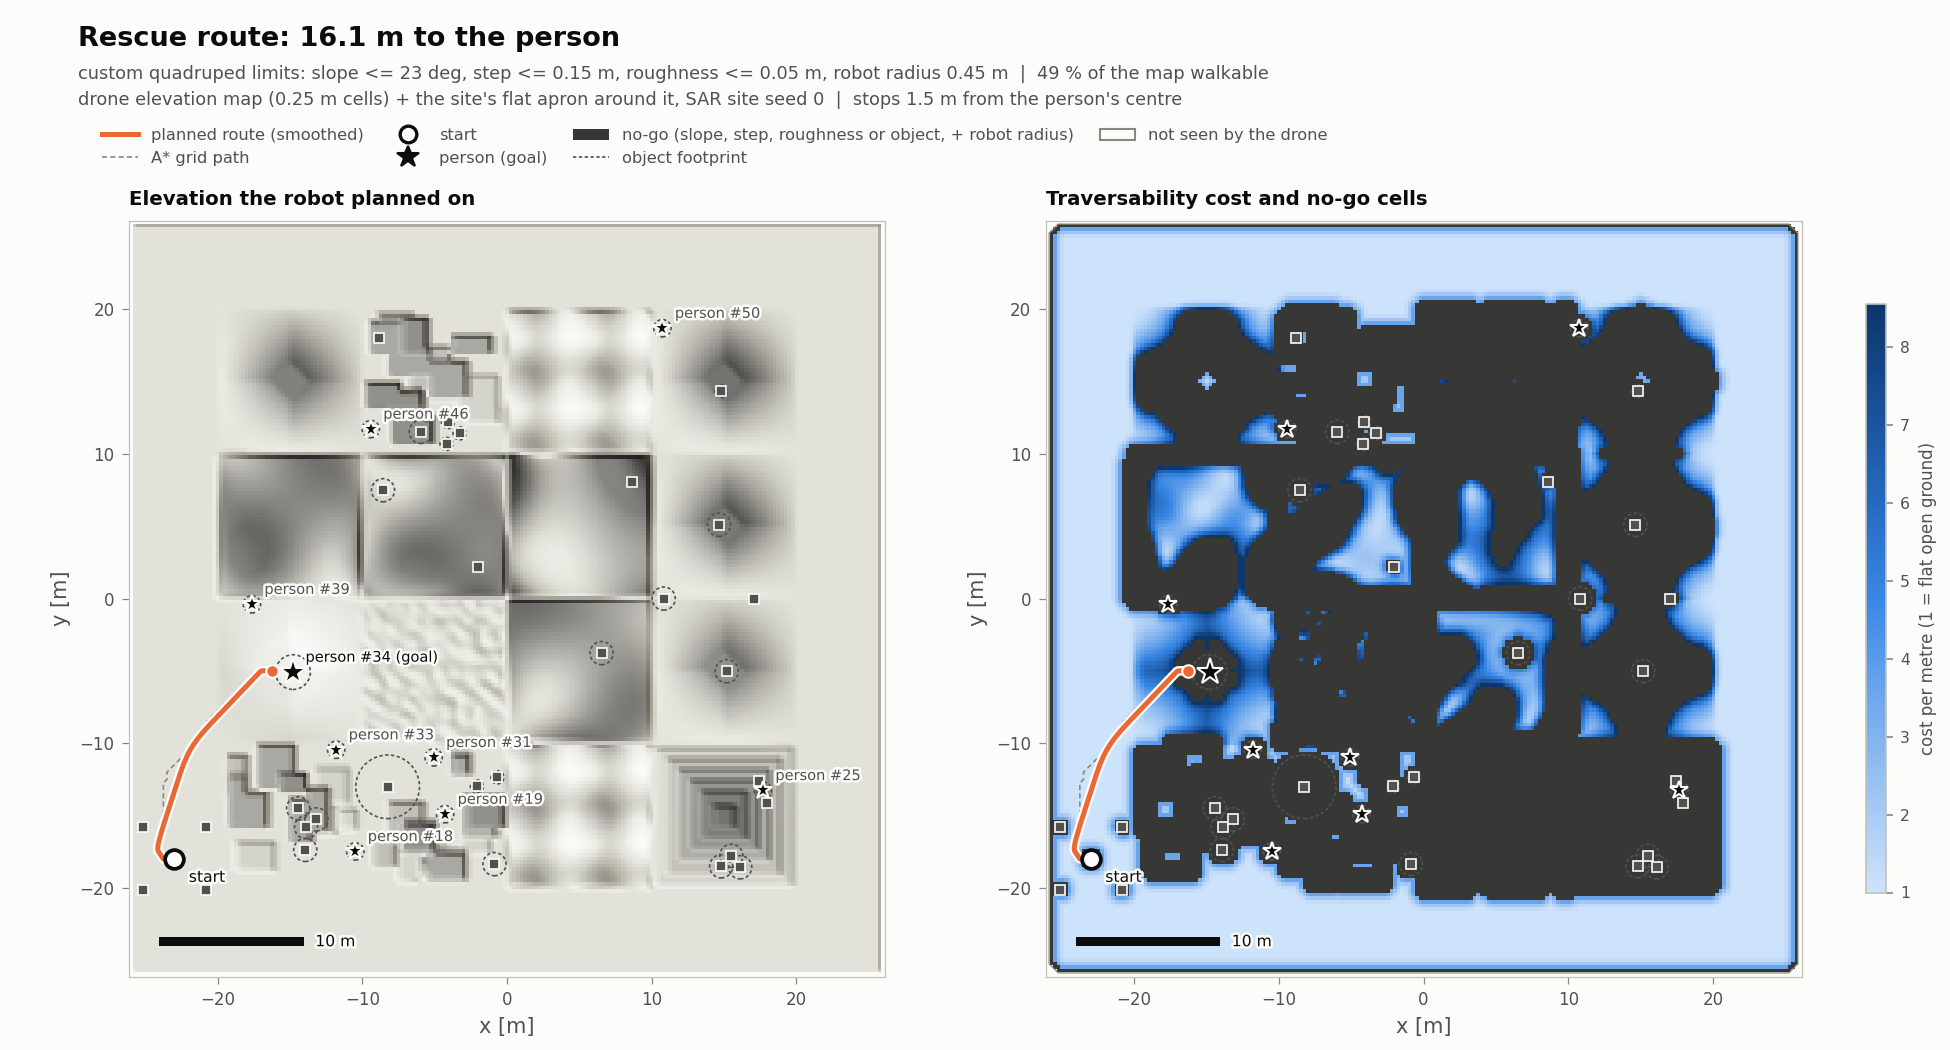
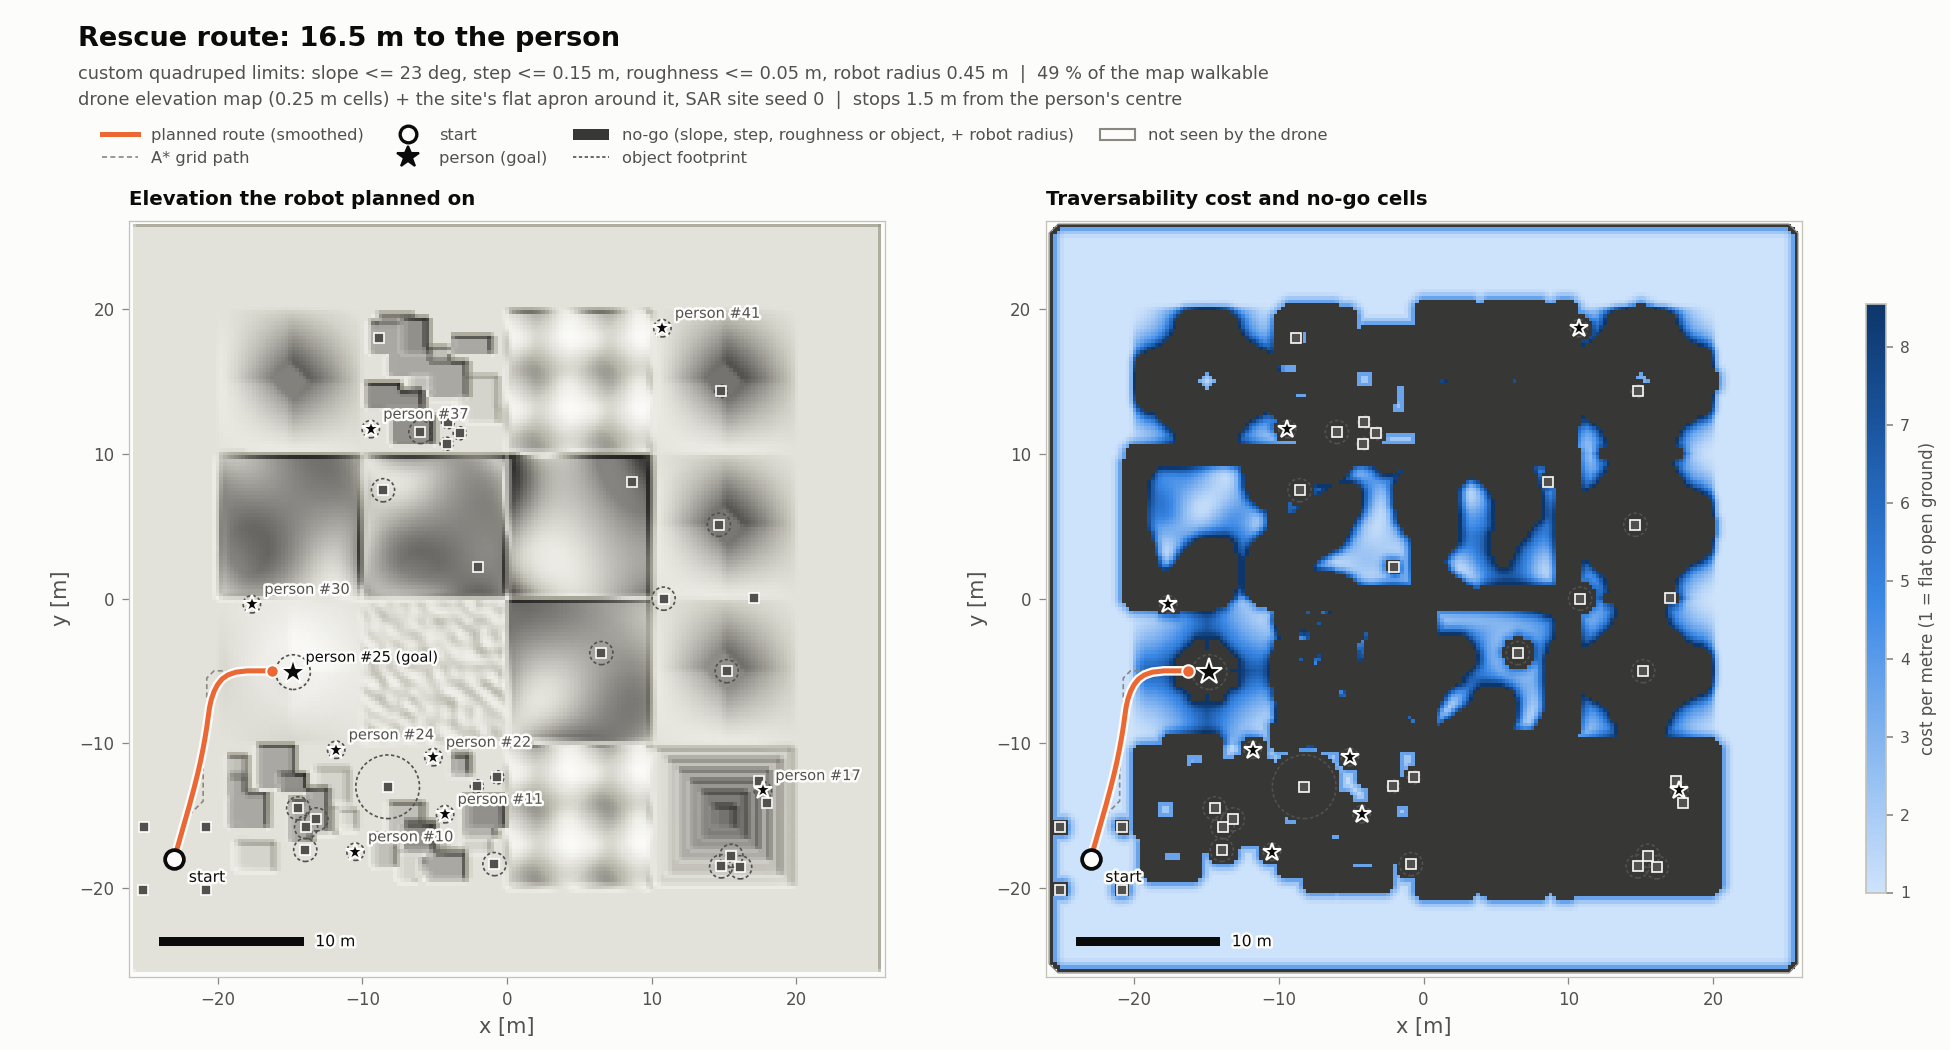
Document the rescue finale on the recorded live mission

diff --git a/sim/src/drone_lab/teaming/README.md b/sim/src/drone_lab/teaming/README.md
@@ -11,7 +11,8 @@ drone elevation map ─┐
 pins (people, props) ┴─► slope / step / roughness ─► cost-weighted 8-conn. A* ─► pure pursuit ─────────► locomotion
                          + object footprints          start/goal snapping         (vx, vy, yaw rate)        policy
                          + robot-radius inflation     shortcuts + smoothing       clipped to the policy's   (unchanged)
-                         = cost map (inf = no-go)     = route                     command ranges
+                         + cross-slope cost           = route                     command ranges
+                         = cost map (inf = no-go)
 ```
 
 ## Run it
@@ -69,7 +70,7 @@ plans on the drone map alone (a start off the map then moves onto the map edge, 
 
 | `--robot` | Policy | Physics | Planner limits |
 |---|---|---|---|
-| `custom` (default) | `quadruped_lab/checkpoints_2x/height_scanner_model_rslrl5.pt` (task `Isaac-Velocity-Rough-Custom-Quad-v0`) | Isaac Sim PhysX | slope 23 deg, step 0.15 m, roughness 0.05 m, robot radius 0.45 m, slope fit over 0.45 m |
+| `custom` (default) | `quadruped_lab/checkpoints_2x/height_scanner_model_rslrl5.pt` (task `Isaac-Velocity-Rough-Custom-Quad-v0`) | Isaac Sim PhysX | slope 23 deg, step 0.15 m, roughness 0.05 m, robot radius 0.45 m, slope fit over 0.45 m, cross-slope weight 6 |
 | `go2` | `IsaacLab/logs/rsl_rl/unitree_go2_rough/2026-11-01_15-38-28_demo_quadruped_cont/model_1498.pt` | Newton (MJWarp) | slope 22 deg, step 0.12 m, roughness 0.05 m, robot radius 0.35 m, slope fit over 0.35 m |
 
 The custom quadruped trained on slopes up to 0.4 rise/run (21.8 deg), stairs up to 0.23 m, boxes up to 0.1 m and
@@ -80,29 +81,48 @@ line and end on the crater floor. At 24 deg the planner also takes the steepest 
 truth the robots still walked straight down them (8 of 8), but on the drone's map the last two metres then ran
 across the wall, and while slowing down for the goal the robots drifted 0.4 m downhill and ended beside the person's
 legs (still 8 of 8 reached). With `--max_slope 22` the route stays on the crater rim and stops on the slope 1.8-2.2 m
-from the person. The `--max_*` and `--robot_radius` flags override any limit; `--task`, `--checkpoint`, `--physics`,
-`--speed` and `--lookahead` override the robot's walk settings.
+from the person. The `--max_*`, `--robot_radius` and `--cross_slope_weight` flags override any limit or weight;
+`--task`, `--checkpoint`, `--physics`, `--speed` and `--lookahead` override the robot's walk settings.
+
+**Steep ground along the fall line.** Turning on a steep descent is what makes this policy run away downhill. In the
+walk logs on this site (about 8,700 policy steps on ground of 17 deg and steeper), yaw-rate commands below 0.4 rad/s
+almost never lead to a speed above 1.2 m/s. Between 0.4 and 0.6 rad/s they do in 5 % of the cases at cruise speed
+and in 44 % while the robot slows down for the goal; above 0.6 rad/s in 43-74 %. On the live mission's map the old
+route came down the crater's gentler south-west corner and turned east on the wall in its last metre, into the only
+free lane next to the person: the recorded robot ran away there at 2.2 m/s and tumbled into the person half a second
+after arriving (with 32 robots on that route none fell, but one reached 1.62 m/s and one stopped 1.01 m from the
+pin). The custom quadruped's planner therefore also pays `6 (cross_slope / max_slope)^2` per metre for the slope
+across its direction of travel. The route on that map now turns on the flat border and comes straight down the fall
+line: 32 of 32 robots, top speed 1.33 m/s, closest stop 1.50 m from the pin, and the recorded walk arrives cleanly.
+On the rim route (`--max_slope 22`), which ends on the slope above the person, the weight also stops the run-aways
+while slowing down there: no robot of 32 above 1.2 m/s instead of 8, closest stop 2.02 m from the person instead of
+0.94 m. On the ground truth the route comes down the crater's corner, where the fall line itself runs diagonally,
+and stays as it was. The Go2 keeps the plain cost (weight 0).
 
 ## Results (2026-11-01, RTX 5080)
 
-**Custom quadruped, Isaac Sim PhysX, dressed site seed 0**, robots starting on the landing pad, 8 at once (small
+**Custom quadruped, Isaac Sim PhysX, dressed site seed 0**, robots starting on the landing pad, 32 at once (small
 spawn jitter), no second tries:
 
 | Map and pins | Route | Robots reached | Time | Planned / walked | Falls |
 |---|---|---|---|---|---|
-| the drone mission's report (`drone_gcs/runs/sar_demo_seed0`: full survey, 9 of 9 people found) | border, then down the crater wall to the drone's pin of person_08 (0.24 m from the true centre) | 8/8 | 23.1-23.7 s | 16.1 / 15.9 m | 0 |
-| a partial mission report (`e2e_v2_gt`: the first 90 s of the flight, 5 people found) | border, past the crates to the drone's pin of person_02 (0.15 m off) | 8/8 | 20.0-20.9 s | 12.8 / 12.7 m | 0 |
-| the drone's survey map `runs/lawnmower_v1` (no detections: site pins) | down the crater wall to person_08 | 8/8 | 23.2-23.7 s | 16.0 / 15.7 m | 0 |
-| ground truth (default) | down the crater's south-west wall to person_08, lying face down on the crater floor (z = -1.1 m) | 8/8 | 22.5-23.1 s | 15.6 / 15.4 m | 0 |
-| ground truth, `--goal_pin person_04` | past the collapsed buildings to person_04, lying face up | 8/8 | 29.7-30.1 s | 18.6 / 18.4 m | 0 |
-| ground truth, `--max_slope 22` | along the crater's north rim, stops on the slope above person_08 | 8/8 | 35.0-35.8 s | 23.7 / 23.1 m | 0 |
+| the recorded live mission's report (`drone_gcs/runs/sar_mission_final`: 9 of 9 people found) | north along the border, then straight down the crater's west wall to the drone's pin of person_08 (0.24 m from the true centre) | 32/32 | 23.9-24.7 s | 16.5 / 16.3-16.6 m | 0 |
+| an earlier full mission's report (`sar_demo_seed0`) | the same way, to that mission's pin of person_08 | 32/32 | 24.9-25.4 s | 17.1 / 16.9-17.3 m | 0 |
+| a partial mission report (`e2e_v2_gt`: the first 90 s of the flight, 5 people found) | border, past the crates to the drone's pin of person_02 (0.15 m off) | 32/32 | 19.8-21.5 s | 12.8 / 12.4-12.8 m | 0 |
+| the drone's survey map `runs/lawnmower_v1` (no detections: site pins) | down the crater's west wall to person_08 | 32/32 | 24.6-25.1 s | 16.9 / 16.7-17.1 m | 0 |
+| ground truth (default) | down the crater's south-west corner to person_08, lying face down on the crater floor 1.4 m below the rim | 32/32 | 22.5-23.4 s | 15.6 / 15.4-15.7 m | 0 |
+| ground truth, `--goal_pin person_04` | past the collapsed buildings to person_04, lying face up | 32/32 | 29.7-30.2 s | 18.6 / 18.3-18.6 m | 0 |
+| ground truth, `--max_slope 22` | along the crater's north rim, stops on the slope above person_08 | 32/32 | 34.7-36.8 s | 23.7 / 23.0-23.4 m | 0 |
+| ground truth, `--sar_seed 3` (another site) | to that site's person_04, lying face down | 32/32 | 31.5-33.4 s | 19.5 / 19.2-19.6 m | 0 |
 
-Mean cross-track error 2-6 cm (max 10-32 cm), walking speed 0.55-0.65 m/s at a cruise command of 0.7 m/s. The robots
-stop 1.2-2.2 m from the person's centre (the person's outline or, for a drone pin, a 1.2 m circle, plus the robot's
-clearance); from the full mission report 1.35-1.68 m from the real person's centre. With `--video` (one robot): the
-mission report 23.6 s, the ground truth 22.7 s, no falls. In the mission report the detector also pinned a "barrel"
-4.3 m above the landing pad (one of its three false alarms); the planner keeps clear of every pin, so that robot
-starts 0.75 m west of the pad's centre.
+Mean cross-track error 2-10 cm, at most 17 cm (on the rim route up to 0.7 m: turning on the 22 deg slope above the
+person, a few robots drift downhill, with the cross-slope weight or without), walking speed 0.53-0.64 m/s at a cruise
+command of 0.7 m/s. The robots stop 1.35-2.2 m from the person's centre (the person's outline or, for a drone pin, a
+1.2 m circle, plus the robot's clearance); from the live mission's report 1.54-1.68 m from the real person's centre.
+With `--video` (one robot) on the live mission's report: 24.3 s, 16.5 m walked, no falls, stopped 1.62 m from the
+pin. In the earlier `sar_demo_seed0` report the detector also pinned a "barrel" 4.3 m above the landing pad (one of
+its three false alarms); the planner keeps clear of every pin, so that robot starts 0.75 m west of the pad's centre.
+The live mission's report has no such pin.
 
 **Go2 fallback, Newton**, the same dressed site: `--robot go2 --num_envs 4` reached person_08 4/4 along the crater
 rim (its limits keep it off the steeper wall), 32.5-32.7 s, 23.7 m, 0 falls.
@@ -133,14 +153,18 @@ A cell is no-go when the slope, the step or the roughness exceeds the robot's li
 (never seen by the drone), or when it lies inside a known object footprint (circles per class, or the exact outline
 from a ground-truth file). No-go cells are inflated by the robot radius, and a soft band beyond that keeps the route
 off edges when there is room. Free cells cost `1 + 6 (slope/max)^2 + 4 (step/max)^2 + 3 (roughness/max)^2 + band`
-per metre, so flat open ground costs 1 and the planner pays for every degree and every centimetre.
+per metre, so flat open ground costs 1 and the planner pays for every degree and every centimetre. With a cross-slope
+weight `w` (`w_cross_slope`; the custom quadruped: 6) a move also pays `w (cross_slope/max)^2` per metre, where
+`cross_slope` is the slope across its direction, from the gradient of the same plane fit: steep ground is then
+crossed along the fall line, and turns move to flatter ground.
 
-**Planner** (`planner.py`). 8-connected A* where a move costs its length times the mean cost of its two cells, with
-an octile heuristic scaled by the cheapest cell (admissible, so the path is optimal on the grid; a test checks it
-against Dijkstra). Diagonal moves may not cut the corner of a no-go cell. The start snaps to the nearest free cell;
-the goal (a person, whose own cells are no-go) snaps to the nearest free cell *reachable from the start*, so the
-robot stops next to the person. The grid path is then shortcut by line of sight (never through a no-go cell, never
-more expensive than the stretch it replaces), its corners are rounded where that stays safe, and it is resampled
+**Planner** (`planner.py`). 8-connected A* where a move costs its length times the mean cost of its two cells (plus
+their cross-slope cost in the move's direction), with an octile heuristic scaled by the cheapest cell (admissible,
+so the path is optimal on the grid; tests check it against Dijkstra, with and without direction costs). Diagonal
+moves may not cut the corner of a no-go cell. The start snaps to the nearest free cell; the goal (a person, whose own
+cells are no-go) snaps to the nearest free cell *reachable from the start*, so the robot stops next to the person.
+The grid path is then shortcut by line of sight (never through a no-go cell, never more expensive than the stretch
+it replaces, by the same direction-dependent cost), its corners are rounded where that stays safe, and it is resampled
 every 0.1 m. Without `--goal` / `--goal_pin` the script tries the people 15-25 m from the start first, lying ones
 first, nearest to 20 m first, and takes the first one it can reach.
 
@@ -179,11 +203,12 @@ CUDA_VISIBLE_DEVICES= python tests/test_teaming_task.py              # env_isaac
 CUDA_VISIBLE_DEVICES= python tests/run_cpu_tests.py                  # env_isaaclab: the whole project, these included
 ```
 
-Traversability on synthetic grids (planes, ledges, noise, holes, footprints, inflation), A* optimality against
-Dijkstra and obstacle avoidance, snapping and smoothing, failure reasons (a start off the map or boxed in is
-reported once, not once per person), follower limits / steering / goal / progress and a closed-loop run on an
-S-curve, input formats and figures, the apron (added around a survey map, filled in on a site-sized map; drone
+Traversability on synthetic grids (planes, ledges, noise, holes, footprints, inflation), the cross-slope cost (zero
+along the fall line, exact across a plane; A* with direction costs against Dijkstra; the path cost the shortcuts use),
+A* optimality against Dijkstra and obstacle avoidance, snapping and smoothing, failure reasons (a start off the map or
+boxed in is reported once, not once per person), follower limits / steering / goal / progress and a closed-loop run on
+an S-curve, input formats and figures, the apron (added around a survey map, filled in on a site-sized map; drone
 cells unchanged, equal to the terrain mesh), both rescue tasks' parity with the velocity task their checkpoint was
-trained on (observations, actions, robot, sensors, command ranges, physics settings), the textured site terrain
-moved to a render-only mesh (in-memory USD stage), the robot profiles, and the CLI on the ground truth, a survey map
-and a drone_gcs mission report (start on the landing pad, drone pins only, the goal pin checked against the truth).
+trained on (observations, actions, robot, sensors, command ranges, physics settings), the textured site terrain moved
+to a render-only mesh (in-memory USD stage), the robot profiles, and the CLI on the ground truth, a survey map and a
+drone_gcs mission report (start on the landing pad, drone pins only, the goal pin checked against the truth).

diff --git a/sim/README.md b/sim/README.md
@@ -212,28 +212,36 @@ mission's backend, over the same seeded terrain and dressed site. Commands, meth
 
 ![The route planned on the drone's elevation map and pins, and the traversability cost](docs/images/rescue_finale_plan.png)
 
-*Planned on the report of the full mission (`drone_gcs/runs/sar_demo_seed0`: 9 of 9 people found): from the landing
-pad along the border and down the crater wall to person #34, whom the drone saw lying in the crater (the pin is
-0.24 m from person_08's true centre). Top: the arrival in the follow-cam video, with the minimap of the drone's map
-and the walked track. Bottom: the elevation the robot planned on (the drone's map plus the known flat border around
-the surveyed area) and the traversability cost with the no-go cells.*
+*Planned on the report of the recorded live mission (`drone_gcs/runs/sar_mission_final`: 9 of 9 people found): from
+the landing pad north along the border, then straight down the crater's west wall to person #25, whom the drone saw
+lying in the crater (the pin is 0.24 m from person_08's true centre). Top: the arrival in the follow-cam video, with
+the minimap of the drone's map and the walked track. Bottom: the elevation the robot planned on (the drone's map plus
+the known flat border around the surveyed area) and the traversability cost with the no-go cells.*
 
-| Map and pins | Person | 8 robots at once, no second tries | Planned route | Falls |
+The recorded finale on the live mission's report (one robot, `--video`): the robot reached the person in 24.3 s,
+walked 16.5 m of the 16.5 m route without a fall and stopped 1.62 m from the drone's pin (1.65 m from the person's
+real centre).
+
+| Map and pins | Person | 32 robots at once, no second tries | Planned route | Falls |
 |---|---|---|---|---|
-| the full mission's report (`--report <drone_gcs run>`) | pin #34, lying in the crater (person_08) | 8/8 reached, 23.1-23.7 s | 16.1 m | 0 |
-| the first 90 s of a mission (5 people found) | pin #30, lying next to the crates (person_02) | 8/8, 20.0-20.9 s | 12.8 m | 0 |
-| the drone's survey map `runs/lawnmower_v1` + the site's pins | person_08 in the crater | 8/8, 23.2-23.7 s | 16.0 m | 0 |
-| terrain + site ground truth (default without a report) | person_08 in the crater | 8/8, 22.5-23.1 s | 15.6 m | 0 |
-| ground truth, `--goal_pin person_04` | person_04, lying by the collapsed buildings | 8/8, 29.7-30.1 s | 18.6 m | 0 |
-| ground truth, `--max_slope 22` | person_08, from the crater rim | 8/8, 35.0-35.8 s | 23.7 m | 0 |
+| the recorded live mission's report (`--report <drone_gcs run>`) | pin #25, lying in the crater (person_08) | 32/32 reached, 23.9-24.7 s | 16.5 m | 0 |
+| an earlier full mission's report (`sar_demo_seed0`) | pin #34, the same person | 32/32, 24.9-25.4 s | 17.1 m | 0 |
+| the first 90 s of a mission (5 people found) | pin #30, lying next to the crates (person_02) | 32/32, 19.8-21.5 s | 12.8 m | 0 |
+| the drone's survey map `runs/lawnmower_v1` + the site's pins | person_08 in the crater | 32/32, 24.6-25.1 s | 16.9 m | 0 |
+| terrain + site ground truth (default without a report) | person_08 in the crater | 32/32, 22.5-23.4 s | 15.6 m | 0 |
+| ground truth, `--goal_pin person_04` | person_04, lying by the collapsed buildings | 32/32, 29.7-30.2 s | 18.6 m | 0 |
+| ground truth, `--max_slope 22` | person_08, from the crater rim | 32/32, 34.7-36.8 s | 23.7 m | 0 |
 
-The pins do not say whether a person is lying or standing; the height of a pin above the mapped ground does (a
-lying person's back is at most 0.4 m up, a standing person's head 1.3-1.8 m), so the planner picks a lying person
-15-25 m away first and gives them a larger footprint. The site's textured terrain needed one change for walking
-robots: on PhysX a collision mesh with material face subsets stops colliding (the robot fell through the ground), so
-the rescue tasks move the textures to a render-only copy of the terrain mesh. The Unitree Go2 with Isaac Lab's
-rough-terrain policy remains as a fallback (`--robot go2`, on Newton: that checkpoint flips within about 2 s on
-PhysX); it reached the crater person 4/4.
+The pins do not say whether a person is lying or standing; the height of a pin above the mapped ground does (a lying
+person's back is at most 0.4 m up, a standing person's head 1.3-1.8 m), so the planner picks a lying person 15-25 m
+away first and gives them a larger footprint. Steep ground is walked along the fall line: turning on a steep descent
+is what makes this policy run away downhill (in the first recording on the live mission's map the route turned on the
+crater wall in its last metre, and the robot tumbled into the person half a second after arriving), so the custom
+quadruped's planner also pays for the slope across its direction of travel, and the route now turns on the flat
+border. The site's textured terrain needed one change for walking robots: on PhysX a collision mesh with material face
+subsets stops colliding (the robot fell through the ground), so the rescue tasks move the textures to a render-only
+copy of the terrain mesh. The Unitree Go2 with Isaac Lab's rough-terrain policy remains as a fallback (`--robot go2`,
+on Newton: that checkpoint flips within about 2 s on PhysX); it reached the crater person 4/4.
 
 ```bash
 CUDA_VISIBLE_DEVICES= python scripts/rescue_finale.py --plan_only --out rescue_plan    # CPU, seconds: plan only
